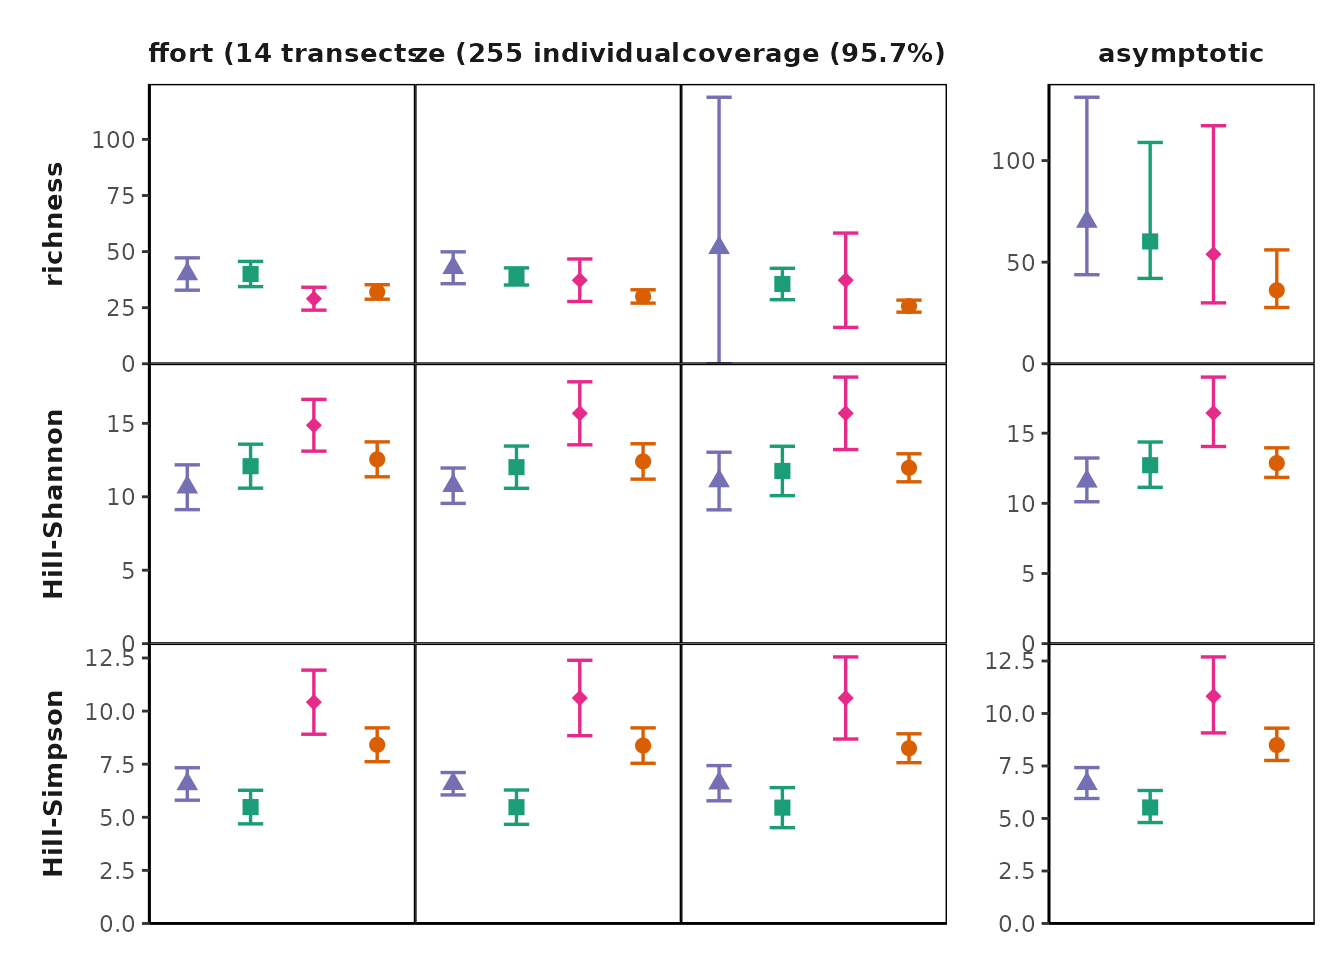
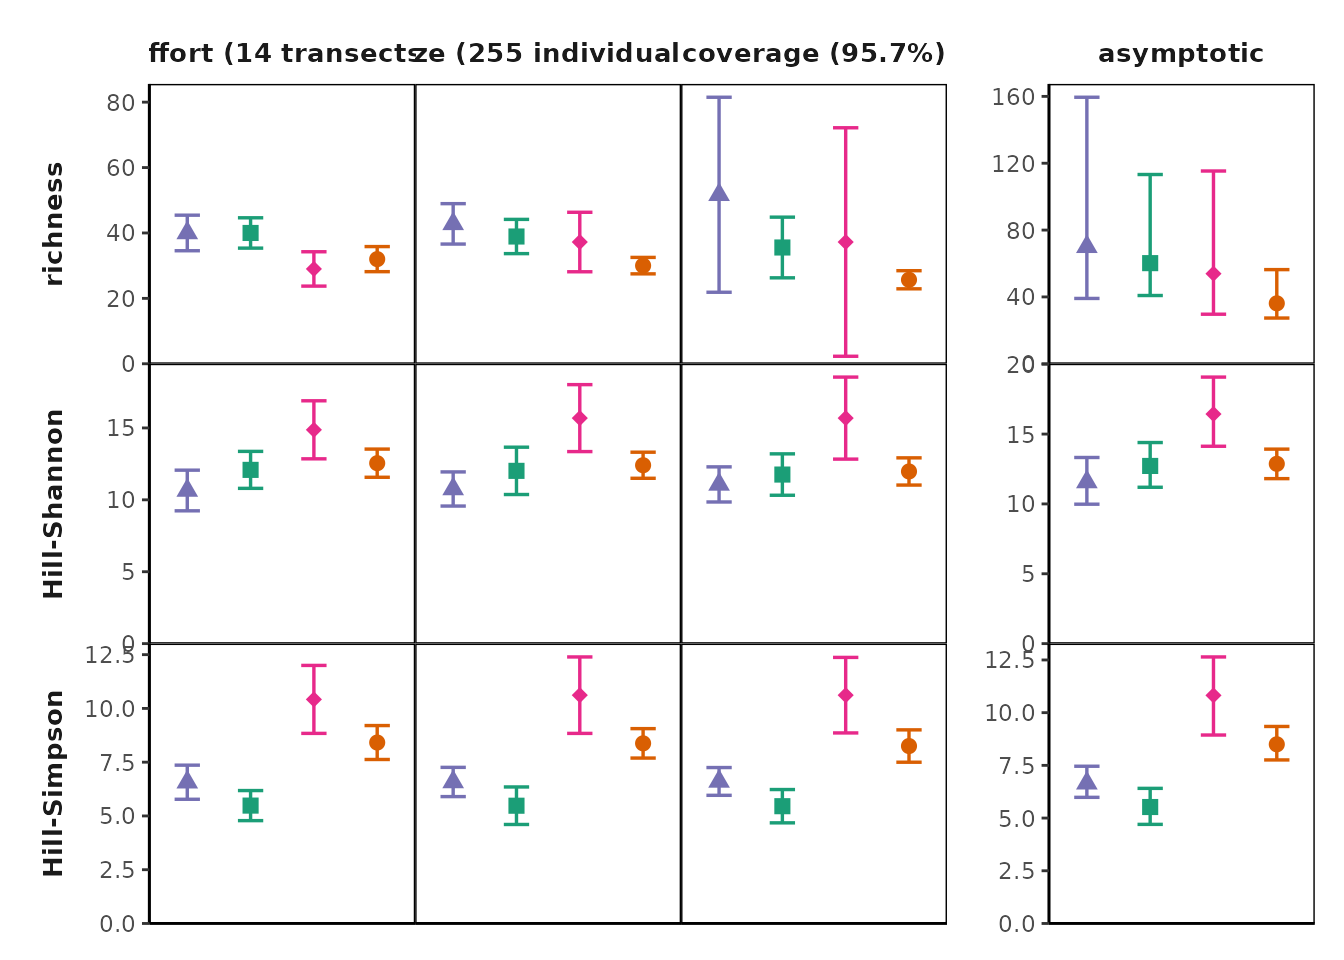
Built site for MeanRarity: 0.0.1.0004@261dacb

diff --git a/articles/Using_MeanRarity.html b/articles/Using_MeanRarity.html
@@ -329,16 +329,16 @@ functions to enable this --></p>
 <span><span class="va">uneven_sample</span> <span class="op">&lt;-</span> <span class="fu"><a href="../reference/sample_infinite.html">sample_infinite</a></span><span class="op">(</span><span class="va">uneven_SAD</span><span class="op">$</span><span class="va">rel_abundances</span>, <span class="fl">50</span><span class="op">)</span></span>
 <span><span class="co">#sample_infinite returns a numeric vector of sample species abundances</span></span>
 <span><span class="va">even_sample</span></span>
-<span><span class="co">#&gt;  [1] 6 5 4 4 4 1 7 1 3 2 2 1 2 4 0 0 1 2 1 0</span></span>
+<span><span class="co">#&gt;  [1] 9 2 6 3 3 0 4 3 2 4 3 0 2 0 4 3 1 1 0 0</span></span>
 <span><span class="va">uneven_sample</span></span>
-<span><span class="co">#&gt;  [1] 16  8  5  3  6  2  1  4  1  2  1  0  1  0  0  0  0  0  0  0</span></span>
+<span><span class="co">#&gt;  [1] 16  9  7  2  3  1  4  0  2  1  0  2  0  0  1  1  0  0  1  0</span></span>
 <span></span>
 <span><span class="co"># we can compare evenness (given a scaling parameter `l`)</span></span>
 <span><span class="co"># the evenness is the normalized ratio of an arbitrary Hill diversity to richness</span></span>
 <span><span class="fu"><a href="../reference/e3Fun.html">e3Fun</a></span><span class="op">(</span><span class="va">even_sample</span>, <span class="op">-</span><span class="fl">1</span><span class="op">)</span></span>
-<span><span class="co">#&gt; [1] 0.7034314</span></span>
+<span><span class="co">#&gt; [1] 0.7257653</span></span>
 <span><span class="fu"><a href="../reference/e3Fun.html">e3Fun</a></span><span class="op">(</span><span class="va">uneven_sample</span>, <span class="op">-</span><span class="fl">1</span><span class="op">)</span></span>
-<span><span class="co">#&gt; [1] 0.4528056</span></span>
+<span><span class="co">#&gt; [1] 0.4034268</span></span>
 <span></span>
 <span><span class="co"># compare diversity from sample vs. ideal SAD:</span></span>
 <span><span class="co"># likely pretty far off for a small sample!</span></span>
@@ -350,8 +350,8 @@ functions to enable this --></p>
 <span><span class="fu"><a href="https://rdrr.io/r/base/cbind.html" class="external-link">rbind</a></span><span class="op">(</span><span class="fu"><a href="https://rdrr.io/r/base/lapply.html" class="external-link">lapply</a></span><span class="op">(</span><span class="fu"><a href="https://rdrr.io/r/base/c.html" class="external-link">c</a></span><span class="op">(</span><span class="fl">1</span>, <span class="fl">0</span>, <span class="op">-</span><span class="fl">1</span><span class="op">)</span>, <span class="kw">function</span><span class="op">(</span><span class="va">l</span><span class="op">)</span><span class="op">{</span></span>
 <span>  <span class="fu"><a href="../reference/rarity.html">rarity</a></span><span class="op">(</span><span class="va">even_sample</span>, <span class="va">l</span><span class="op">)</span></span>
 <span><span class="op">}</span><span class="op">)</span><span class="op">)</span></span>
-<span><span class="co">#&gt;      [,1] [,2]    [,3]   </span></span>
-<span><span class="co">#&gt; [1,] 17   14.0582 12.2549</span></span>
+<span><span class="co">#&gt;      [,1] [,2]     [,3]    </span></span>
+<span><span class="co">#&gt; [1,] 15   12.88469 11.16071</span></span>
 <span></span>
 <span><span class="co"># with an uneven SAD, sample Hill-Simpson can be higher than true Hill-Simpson</span></span>
 <span><span class="co"># richness is always lower</span></span>
@@ -361,8 +361,8 @@ functions to enable this --></p>
 <span><span class="fu"><a href="https://rdrr.io/r/base/cbind.html" class="external-link">rbind</a></span><span class="op">(</span><span class="fu"><a href="https://rdrr.io/r/base/lapply.html" class="external-link">lapply</a></span><span class="op">(</span><span class="fu"><a href="https://rdrr.io/r/base/c.html" class="external-link">c</a></span><span class="op">(</span><span class="fl">1</span>, <span class="fl">0</span>, <span class="op">-</span><span class="fl">1</span><span class="op">)</span>, <span class="kw">function</span><span class="op">(</span><span class="va">l</span><span class="op">)</span><span class="op">{</span></span>
 <span>  <span class="fu"><a href="../reference/rarity.html">rarity</a></span><span class="op">(</span><span class="va">uneven_sample</span>, <span class="va">l</span><span class="op">)</span></span>
 <span><span class="op">}</span><span class="op">)</span><span class="op">)</span></span>
-<span><span class="co">#&gt;      [,1] [,2]     [,3]    </span></span>
-<span><span class="co">#&gt; [1,] 12   8.035402 5.980861</span></span>
+<span><span class="co">#&gt;      [,1] [,2]    [,3]    </span></span>
+<span><span class="co">#&gt; [1,] 13   8.14064 5.841121</span></span>
 <span></span>
 <span></span>
 <span><span class="va">big_even_sample</span> <span class="op">&lt;-</span> <span class="fu"><a href="../reference/sample_infinite.html">sample_infinite</a></span><span class="op">(</span><span class="va">even_SAD</span><span class="op">$</span><span class="va">rel_abundances</span>, <span class="fl">1e7</span><span class="op">)</span></span>
@@ -376,7 +376,7 @@ functions to enable this --></p>
 <span>  <span class="fu"><a href="../reference/rarity.html">rarity</a></span><span class="op">(</span><span class="va">big_even_sample</span>, <span class="va">l</span><span class="op">)</span></span>
 <span><span class="op">}</span><span class="op">)</span><span class="op">)</span></span>
 <span><span class="co">#&gt;      [,1] [,2]     [,3]    </span></span>
-<span><span class="co">#&gt; [1,] 20   15.11862 11.99736</span></span></code></pre></div>
+<span><span class="co">#&gt; [1,] 20   15.12084 12.00019</span></span></code></pre></div>
 <p>For any distribution of relative abundances, one can ask, “what is the Hill diversity of this distribution?” Yet the answer, of course, depends on the chosen value of the scaling parameter <span class="math inline">\(\ell\)</span>. For a comprehensive answer, one might look across values of <span class="math inline">\(\ell\)</span>, also known as a Hill “diversity profile” <span class="citation">(Chao et al. 2014)</span>. <strong>MeanRarity</strong> provides a function to generate a Hill diversity profile based on <span class="math inline">\(\ell\)</span> (rather than <span class="math inline">\(q\)</span>): <code><a href="../reference/divpro.html">divpro()</a></code>. <!-- these should be on a single plot, will be much more interesting that way!--></p>
 <div class="sourceCode" id="cb8"><pre class="downlit sourceCode r">
 <code class="sourceCode R"><span><span class="co"># the even and uneven communities have same richness but different Hill </span></span>

diff --git a/reference/rmsle.html b/reference/rmsle.html
@@ -91,10 +91,10 @@
     <div class="sourceCode"><pre class="sourceCode r"><code><span class="r-in"><span></span></span>
 <span class="r-in"><span><span class="va">x</span> <span class="op">&lt;-</span> <span class="fu"><a href="https://rdrr.io/r/stats/Lognormal.html" class="external-link">rlnorm</a></span><span class="op">(</span>n <span class="op">=</span> <span class="fl">1e5</span><span class="op">)</span></span></span>
 <span class="r-in"><span><span class="fu">rmsle</span><span class="op">(</span><span class="va">x</span><span class="op">)</span> <span class="co"># should be very close to sdlog of lnorm, 1</span></span></span>
-<span class="r-out co"><span class="r-pr">#&gt;</span> [1] 1.0038</span>
+<span class="r-out co"><span class="r-pr">#&gt;</span> [1] 0.9990546</span>
 <span class="r-in"><span><span class="va">y</span> <span class="op">&lt;-</span> <span class="fu"><a href="https://rdrr.io/r/stats/Normal.html" class="external-link">rnorm</a></span><span class="op">(</span>n <span class="op">=</span> <span class="fl">5000</span>, mean <span class="op">=</span> <span class="fl">12</span> <span class="op">)</span></span></span>
 <span class="r-in"><span><span class="fu">rmsle</span><span class="op">(</span><span class="va">y</span>, true_x <span class="op">=</span> <span class="fu"><a href="Ln.html">Ln</a></span><span class="op">(</span><span class="fl">12</span><span class="op">)</span><span class="op">)</span></span></span>
-<span class="r-out co"><span class="r-pr">#&gt;</span> [1] 0.08314553</span>
+<span class="r-out co"><span class="r-pr">#&gt;</span> [1] 0.08402034</span>
 <span class="r-in"><span><span class="fl">1</span><span class="op">/</span><span class="fl">12</span></span></span>
 <span class="r-out co"><span class="r-pr">#&gt;</span> [1] 0.08333333</span>
 </code></pre></div>

diff --git a/reference/Chao_Hill_abu.html b/reference/Chao_Hill_abu.html
@@ -119,11 +119,11 @@ ISSN 2041210X, <a href="https://doi.org/10.1111/2041-21" class="external-link">d
 <span class="r-in"><span></span></span>
 <span class="r-in"><span><span class="co"># estimate true Hill diversity</span></span></span>
 <span class="r-in"><span><span class="fu">Chao_Hill_abu</span><span class="op">(</span><span class="va">abs</span>, l <span class="op">=</span> <span class="fl">1</span><span class="op">)</span> <span class="co"># Chao1 estimate of richness lower bound</span></span></span>
-<span class="r-out co"><span class="r-pr">#&gt;</span> [1] 52.78733</span>
+<span class="r-out co"><span class="r-pr">#&gt;</span> [1] 38.04208</span>
 <span class="r-in"><span><span class="fu">Chao_Hill_abu</span><span class="op">(</span><span class="va">abs</span>, l <span class="op">=</span> <span class="fl">0</span><span class="op">)</span> <span class="co"># Asymptotic estimate of Hill-Shannon diversity</span></span></span>
-<span class="r-out co"><span class="r-pr">#&gt;</span> [1] 27.35474</span>
+<span class="r-out co"><span class="r-pr">#&gt;</span> [1] 28.38923</span>
 <span class="r-in"><span><span class="fu">Chao_Hill_abu</span><span class="op">(</span><span class="va">abs</span>, l <span class="op">=</span> <span class="op">-</span><span class="fl">1</span><span class="op">)</span> <span class="co"># Asymptotic estimate of Hill-Simpson diversity</span></span></span>
-<span class="r-out co"><span class="r-pr">#&gt;</span> [1] 17.24537</span>
+<span class="r-out co"><span class="r-pr">#&gt;</span> [1] 20.02688</span>
 <span class="r-in"><span></span></span>
 </code></pre></div>
     </div>

diff --git a/reference/hurl.html b/reference/hurl.html
@@ -130,7 +130,7 @@ Hurlbert SH (1971).
     <h2>Examples</h2>
     <div class="sourceCode"><pre class="sourceCode r"><code><span class="r-in"><span><span class="va">ab</span> <span class="op">=</span> <span class="fu"><a href="https://rdrr.io/r/base/sample.html" class="external-link">sample</a></span><span class="op">(</span><span class="fl">10</span><span class="op">:</span><span class="fl">50</span>, <span class="fl">50</span>, replace <span class="op">=</span><span class="cn">TRUE</span><span class="op">)</span></span></span>
 <span class="r-in"><span><span class="fu">hurl</span><span class="op">(</span><span class="va">ab</span>, <span class="fl">2</span><span class="op">)</span></span></span>
-<span class="r-out co"><span class="r-pr">#&gt;</span> [1] 44.71707</span>
+<span class="r-out co"><span class="r-pr">#&gt;</span> [1] 44.65793</span>
 <span class="r-in"><span><span class="co"># not run</span></span></span>
 <span class="r-in"><span><span class="co"># hurl(ab, 1e5) # returns an error</span></span></span>
 <span class="r-in"><span></span></span>

diff --git a/reference/Chat.Ind.html b/reference/Chat.Ind.html
@@ -116,11 +116,11 @@ T. C. Hsieh and Chun-Huo Chiu.</p>
 <span class="r-in"><span></span></span>
 <span class="r-in"><span><span class="co"># estimate coverage of sample</span></span></span>
 <span class="r-in"><span><span class="fu">Chat.Ind</span><span class="op">(</span><span class="va">abs</span><span class="op">)</span></span></span>
-<span class="r-out co"><span class="r-pr">#&gt;</span> [1] 0.9408817</span>
+<span class="r-out co"><span class="r-pr">#&gt;</span> [1] 0.9540384</span>
 <span class="r-in"><span></span></span>
 <span class="r-in"><span><span class="co"># estimate coverage under rarefaction</span></span></span>
 <span class="r-in"><span><span class="fu">Chat.Ind</span><span class="op">(</span><span class="va">abs</span>, m <span class="op">=</span> <span class="fl">100</span><span class="op">)</span></span></span>
-<span class="r-out co"><span class="r-pr">#&gt;</span> [1] 0.8813896</span>
+<span class="r-out co"><span class="r-pr">#&gt;</span> [1] 0.9023351</span>
 </code></pre></div>
     </div>
   </div>

diff --git a/reference/sample_finite.html b/reference/sample_finite.html
@@ -96,7 +96,7 @@ scalar</p></dd>
     <div id="ref-examples">
     <h2>Examples</h2>
     <div class="sourceCode"><pre class="sourceCode r"><code><span class="r-in"><span><span class="fu">sample_finite</span><span class="op">(</span><span class="fl">1</span><span class="op">:</span><span class="fl">9</span>, <span class="fl">15</span><span class="op">)</span></span></span>
-<span class="r-out co"><span class="r-pr">#&gt;</span> [1] 1 1 1 1 1 0 2 3 5</span>
+<span class="r-out co"><span class="r-pr">#&gt;</span> [1] 0 0 2 1 2 3 3 1 3</span>
 </code></pre></div>
     </div>
   </div>
